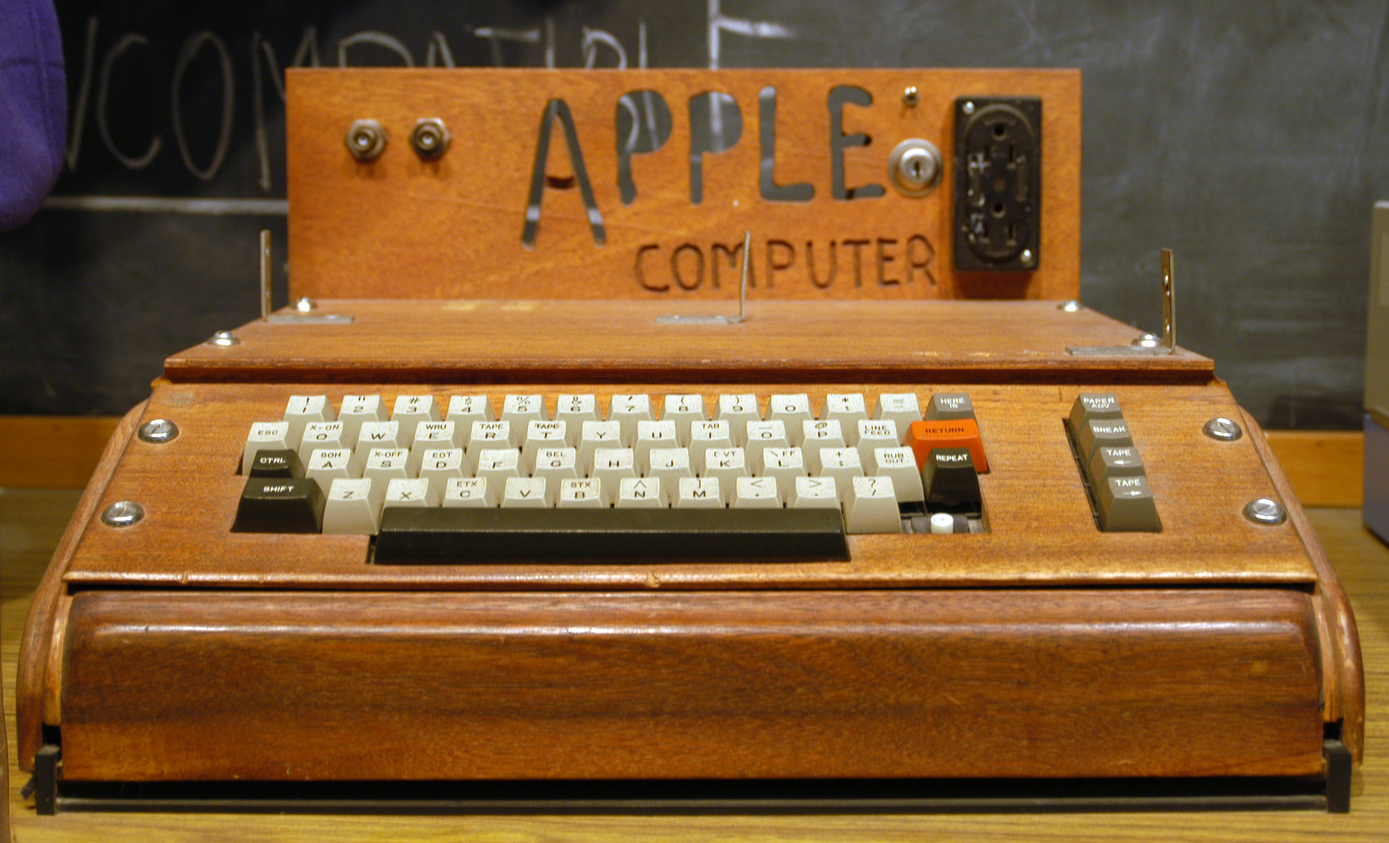
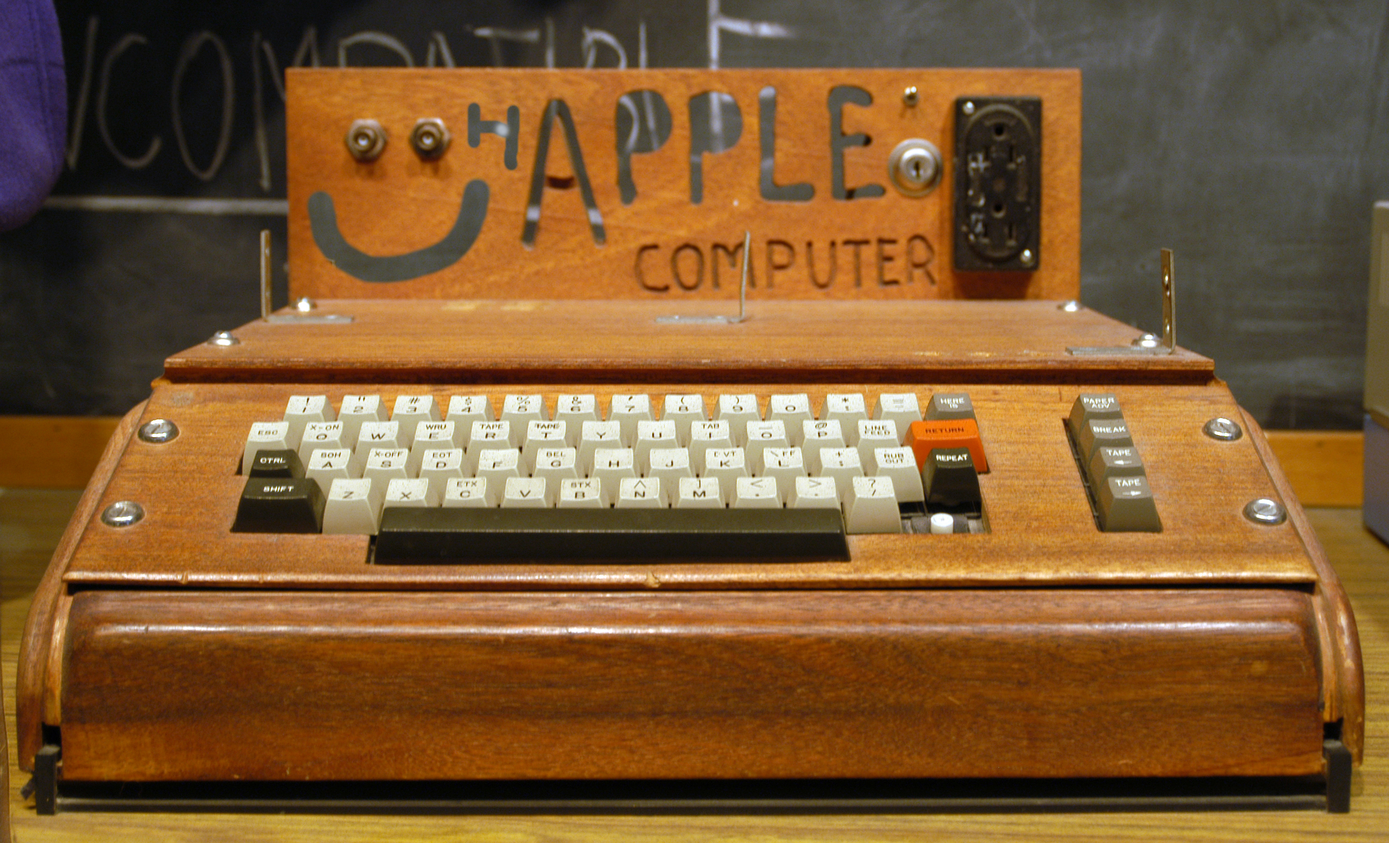
Update src images

Changed region(s): [[0.2174, 0.1233, 0.3727, 0.339]]

diff --git a/index.html b/index.html
@@ -13,21 +13,21 @@
 
     <script type="text/javascript" src="https://cdn.rawgit.com/scottjehl/picturefill/3.0.2/dist/picturefill.min.js" async>
     </script>
-    <title>Happle Company: Device and Software Ninja!</title>
+    <title>Happle Company: The Happy Apple Company</title>
   </head>
   <body>
     <div class="container">
       <header>
         <div class="row">
-          <div class="col-sm-6">
-            <img id="logo" src="images/Apple_logo_grey.svg" alt="Logo" />
+          <div class="col-sm-4">
+            <img id="logo" src="assets/svg/Happle_logo_grey.svg" alt="Logo" />
           </div>
-          <div class="col-sm-6 text-right text-uppercase">
+          <div class="col-sm-8 text-right text-uppercase">
             <h1>
               Happle Company
             </h1>
             <h3>
-              Device and Software Ninja!
+              The Happy Apple Company
             </h3>
           </div>
         </div>
@@ -35,7 +35,7 @@
       <main>
         <div class="row">
           <div class="col-md-12">
-            <img class="hero" src="images/Apple_I_Computer.jpg" alt="Hero Image" />
+            <img class="hero" src="assets/images/Apple_I_Computer-1474_large_2x.jpg" alt="Hero Image" />
           </div>
         </div>
         <div class="row">
@@ -47,7 +47,7 @@
         </div>
         <div class="row">
           <div class="col-sm-4 feat-item text-center">
-            <img class="image-responsive" src="images/Apple_II.jpg" alt="" />
+            <img class="image-responsive" src="assets/images/Apple_II-1474_large_2x.jpg" alt="" />
             <p class="feat-item-name">
               App Name
             </p>
@@ -56,7 +56,7 @@
             </p>
           </div>
           <div class="col-sm-4 feat-item text-center">
-            <img class="image-responsive" src="images/Macintosh.jpg" alt="" />
+            <img class="image-responsive" src="assets/images/Macintosh-1474_large_2x.jpg" alt="" />
             <p class="feat-item-name">
               App Name
             </p>
@@ -65,7 +65,7 @@
             </p>
           </div>
           <div class="col-sm-4 feat-item text-center">
-            <img class="image-responsive" src="images/Macintosh_portable.jpg" alt="" />
+            <img class="image-responsive" src="assets/images/Macintosh_portable-1474_large_2x.jpg" alt="" />
             <p class="feat-item-name">
               App Name
             </p>

diff --git a/Gruntfile.js b/Gruntfile.js
@@ -24,7 +24,7 @@ module.exports = function(grunt) {
           expand: true,
           src: ['*.{gif,jpg,png}'],
           cwd: 'images_src/',
-          dest: 'images/'
+          dest: 'assets/images/'
         }]
       }
     },
@@ -34,7 +34,7 @@ module.exports = function(grunt) {
     */
     clean: {
       dev: {
-        src: ['images']
+        src: ['assets/images']
       }
     },
   });
